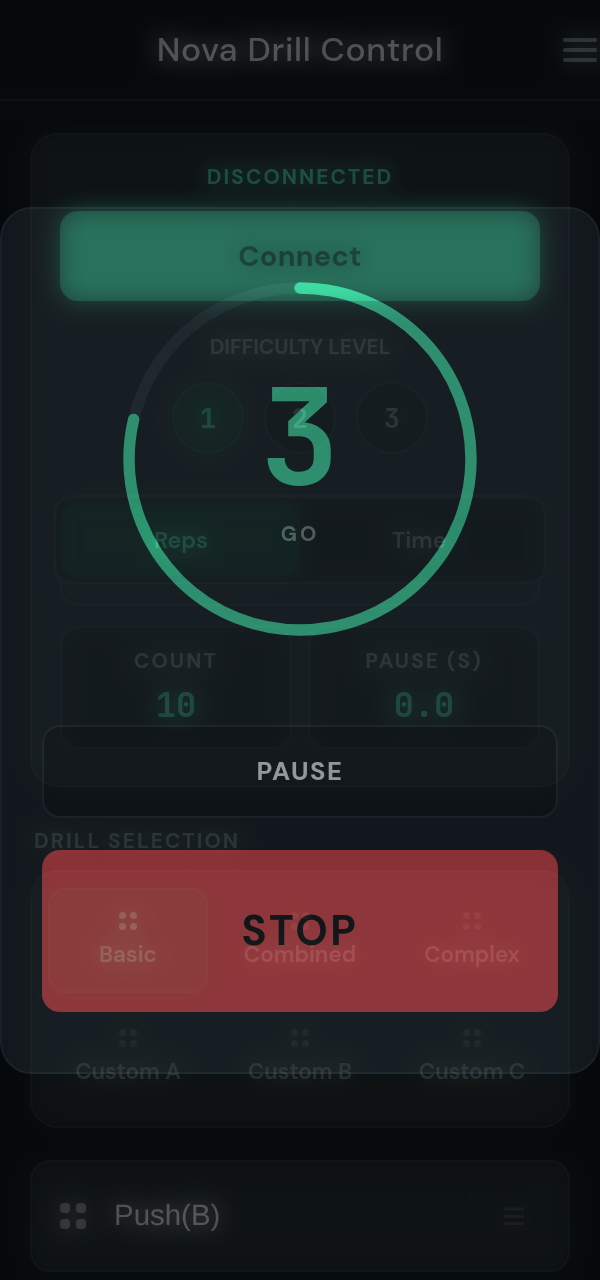
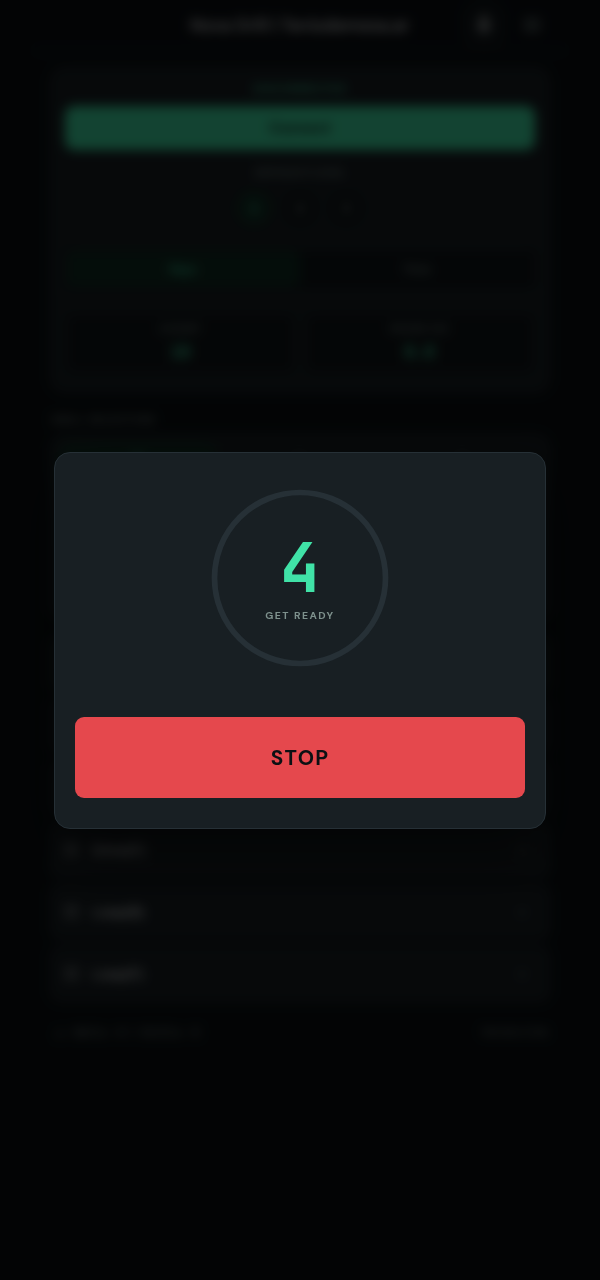
Give the title room, and stop the screenshots catching a fade
Two things you noticed, one layout and one capture.

THE MIC AND THE TITLE. The header was centring two flex children, and
`h1` ended at exactly the pixel the button group began - a measured gap
of 0. On a 375px iPhone SE the two overlapped by 7px, and at 320px by
22px. Both controls now float over the header's right margin, as the
hamburger always did, so the title is again the only thing in the flow and
stays genuinely centred.

Reserving a grid column for the buttons looks like the tidier fix and is
not: `1fr auto 1fr` leaves the title 208px for 219px of text at 430px and
98px at 320px, so it clips at every width - the two fixes that read
best are the two that do not work. Floating needs no space reserved,
because the title is short enough to stop short on its own. That does mean
the full name and two 40px buttons cannot both fit under ~453px, so the
name has a short form below 460px. The breakpoint is arithmetic, not
taste: the clear space is `viewport/2 - 210px`.

THE GHOSTING. `.modal-overlay` is `opacity: 0` with
`transition: opacity 0.25s`, and the committed screenshots were taken
inside that window, so the modal and its `backdrop-filter: blur(6px)`
backdrop landed at partial opacity, blended with the page. Measured, the
editor shot had a mean brightness of 33.1 against 33 for the plain drill
list - a 70%-black overlay that was not darkening anything at all. Now
15.0. The countdown was the same story, 34.2 -> 17.4.
[…]

diff --git a/css/style.css b/css/style.css
@@ -218,6 +218,13 @@ header {
     display: flex;
     align-items: center;
     justify-content: center;
+    /* The title is the ONLY thing in the flow and stays genuinely centred.
+       The buttons float over the header's right margin, which is what the
+       hamburger always did. Reserving a grid column for them instead - the
+       obvious-looking fix - costs the title its width: at 430px a 1fr-auto-1fr
+       grid leaves the title 208px for 219px of text, and at 320px it leaves
+       98px, so it clips either way. Floating needs no space reserved, because
+       the title is short enough to stop short of the buttons on its own. */
     position: sticky;
     top: 0;
     z-index: 90;
@@ -227,6 +234,26 @@ header {
     backdrop-filter: blur(12px);
     -webkit-backdrop-filter: blur(12px);
     border-bottom: 1px solid var(--border);
+}
+header h1 {
+    min-width: 0;
+    text-align: center;
+    white-space: nowrap;
+    overflow: hidden;
+    text-overflow: ellipsis;
+}
+/* The narrow form of the name. Below the breakpoint the short one is shown and
+   the long one leaves the box entirely - `display: none`, not a smaller font,
+   because at 320px the full name and two 40px buttons cannot both fit at any
+   readable size.
+   The number is arithmetic, not a guess. With the group 86px wide floating
+   over a 15px margin, the clear space between a centred name and the group is
+   `viewport/2 - 210px`; the full name needs ~16px of that to stop looking
+   crowded, so anything under ~453px gets the short form. */
+.brand-short { display: none; }
+@media (max-width: 460px) {
+    .brand-full { display: none; }
+    .brand-short { display: inline; }
 }
 
 h1 {
@@ -2389,10 +2416,26 @@ header { padding-top: calc(14px + env(safe-area-inset-top)); }
    is what keeps the two controls a pair; the header centres its children, so
    without it the mic would sit against the title and the menu would drift. */
 .ai-open-wrap {
+    /* Floated over the header's right margin, like the hamburger always was,
+       with `right: 15px` because the header carries a -15px margin and is
+       therefore 15px wider than the viewport on that side. */
+    position: absolute;
+    right: 15px;
+    top: 50%;
+    transform: translateY(-50%);
     display: flex;
     align-items: center;
     gap: 8px;
     flex-shrink: 0;
+    z-index: 101;
+}
+/* Inside the wrapper the hamburger is a normal flex item again. Its
+   `position: absolute; right: 0` was for when it was the header's only
+   floating control, and it would pull it out of the group and back to the
+   header's right edge - on top of the mic. */
+.ai-open-wrap .menu-btn {
+    position: static;
+    margin: 0;
 }
 .ai-open-btn {
     display: flex;

diff --git a/tests/integration.html b/tests/integration.html
@@ -1615,6 +1615,21 @@ V.releaseScreenLock();
     ok('and the header is sticky in the stylesheet',
        /position:\s*sticky/.test(await fetchText('css/style.css')));
 
+    // The title and the two floating controls have to be able to coexist. They
+    // overlapped by 7px on a 375px phone until the name gained a short form,
+    // so the markup for BOTH forms is asserted here - cheap, and it cannot
+    // rot. The geometry itself is checked by tools/check-app.mjs, which can
+    // change the viewport.
+    const brand = /<h1 class="brand">([\s\S]*?)<\/h1>/.exec(await fetchText('index.html'));
+    ok('the title has a long and a short form', !!brand
+        && /brand-full/.test(brand[1]) && /brand-short/.test(brand[1]));
+    ok('and only the short one is translated away, both are real i18n keys', (() => {
+        if (!brand) return false;
+        return /data-i18n="app\.title"/.test(brand[1]) && /data-i18n="app\.shortTitle"/.test(brand[1]);
+    })());
+    ok('with the short form hidden until a narrow breakpoint',
+       /\.brand-short\s*\{\s*display:\s*none/.test(await fetchText('css/style.css')));
+
     const menu = document.getElementById('theme-menu');
     const header = document.getElementById('harness-header');
     header.style.position = 'sticky';

diff --git a/index.html b/index.html
@@ -37,7 +37,16 @@
 <div class="container">
     
     <header>
-        <h1 data-i18n="app.title">Nova Drill | Tenisdemesa.ar</h1>
+        <!-- Two forms of one name. The header also floats two 40px controls
+             over its right margin, and on a 375px phone the full name and those
+             buttons cannot both fit at any readable size - they overlapped by
+             7px on an iPhone SE, which is not a screen anybody should have to
+             scroll a header for. The short form is the same brand, and it is
+             what a narrow header has always wanted. -->
+        <h1 class="brand">
+            <span class="brand-full" data-i18n="app.title">Nova Drill | Tenisdemesa.ar</span>
+            <span class="brand-short" data-i18n="app.shortTitle">Nova</span>
+        </h1>
         <div class="ai-open-wrap">
             <button class="ai-open-btn" onclick="window.openAiView()" data-i18n-attr="aria-label:a11y.openAi;title:menu.ai">
                 <svg viewBox="0 0 24 24" width="20" height="20" fill="none" stroke="currentColor" stroke-width="2" stroke-linecap="round" stroke-linejoin="round" aria-hidden="true">

diff --git a/js/main.js b/js/main.js
@@ -226,6 +226,11 @@ window.closeEditor = closeEditor;
 window.saveDrillChanges = saveDrillChanges;
 window.togglePause = togglePause;
 window.stopRun = stopRun;
+// The rest of the run API is on window, and the thing that STARTS a run was
+// not: it was reachable only through handleDrillClick, which refuses without
+// a robot connected. That made the countdown unreachable for anything driving
+// the real page - including tools/screenshots.mjs.
+window.startDrillSequence = startDrillSequence;
 
 window.handleDrillClick = (key, btn) => {
     if (!bleState.isConnected) {

diff --git a/js/locales/en.js b/js/locales/en.js
@@ -16,7 +16,10 @@
 
 export const en = {
     app: {
-        title: 'Nova Drill | Tenisdemesa.ar'
+        title: 'Nova Drill | Tenisdemesa.ar',
+        // The narrow form of the name, for a header too small for the full one.
+        // A brand mark, so identical in both languages - see AGENTS.md.
+        shortTitle: 'Nova'
     },
 
     // --- index.html: the hamburger menu and the header ---

diff --git a/js/locales/es.js b/js/locales/es.js
@@ -30,7 +30,10 @@
 
 export const es = {
     app: {
-        title: 'Nova Drill | Tenisdemesa.ar'
+        title: 'Nova Drill | Tenisdemesa.ar',
+        // The narrow form of the name, for a header too small for the full one.
+        // A brand mark, so identical in both languages - see AGENTS.md.
+        shortTitle: 'Nova'
     },
 
     // --- index.html: the hamburger menu and the header ---

diff --git a/sw.js b/sw.js
@@ -21,7 +21,7 @@
  *     install at all, rather than an app that half-works offline.
  */
 
-const VERSION = 'v4';
+const VERSION = 'v5';
 const CACHE = `nova-shell-${VERSION}`;
 
 /** The precached address of the app itself. Serve as the navigation fallback. */

diff --git a/AGENTS.md b/AGENTS.md
@@ -34,6 +34,10 @@ manifest.webmanifest  install metadata; every path relative, see Installing
 sw.js               service worker: precache + offline. Hand-written, see Installing
 icons/              PWA icon set; *.svg are the sources for tools/make-icons.sh
 tools/make-icons.sh regenerates icons/*.png. Not part of the build
+tools/run-checks.sh both deploy gates in one command
+tools/check-app.mjs boots the real index.html over CDP
+tools/screenshots.mjs regenerates images/*.png for the README
+tools/live-check.mjs one live call against a real endpoint, BYOK
 css/style.css       all styling, one file, CSS custom properties per theme
 fonts/              self-hosted DM Sans + JetBrains Mono woff2, see Design
 js/
@@ -635,6 +639,15 @@ the canvas or it gets cut in half on a real home screen.
   geometry on the real page. Note `right: 30px` on `.theme-menu`: the header has
   a `-15px` margin and is therefore 30px wider than `.container`, and the menu
   has to be pushed back to keep its right edge on the same pixel.
+- **The header title is the only thing in the flow; the two controls float.**
+  The title stays genuinely centred and `.ai-open-wrap` is `position: absolute`
+  over the header's right margin. Reserving a grid column for the buttons looks
+  like the tidier fix and is not: `1fr auto 1fr` leaves the title 208px for
+  219px of text at 430px, and 98px at 320px, so it clips at every width. The
+  name therefore has a short form (`.brand-short`, below 460px) - the
+  breakpoint is arithmetic, not taste: the clear space is `viewport/2 - 210px`,
+  so under ~453px the full name and two 40px buttons cannot both fit. They
+  overlapped by 7px on a 375px iPhone SE before this.
 - **The hamburger menu carries only drill actions** (download / export /
   import drills, Settings, About). Anything that is not an action you reach
   for mid-session belongs in the Settings screen (`js/settingsUi.js`), which is
@@ -748,7 +761,7 @@ node --test tests/*.test.mjs            # 90 unit tests, no dependencies
 tools/run-checks.sh
 ```
 
-Browser integration (476 checks, needs the HTTP server above):
+Browser integration (479 checks, needs the HTTP server above):
 
 ```bash
 google-chrome --headless --no-sandbox --disable-gpu --disable-dev-shm-usage \
